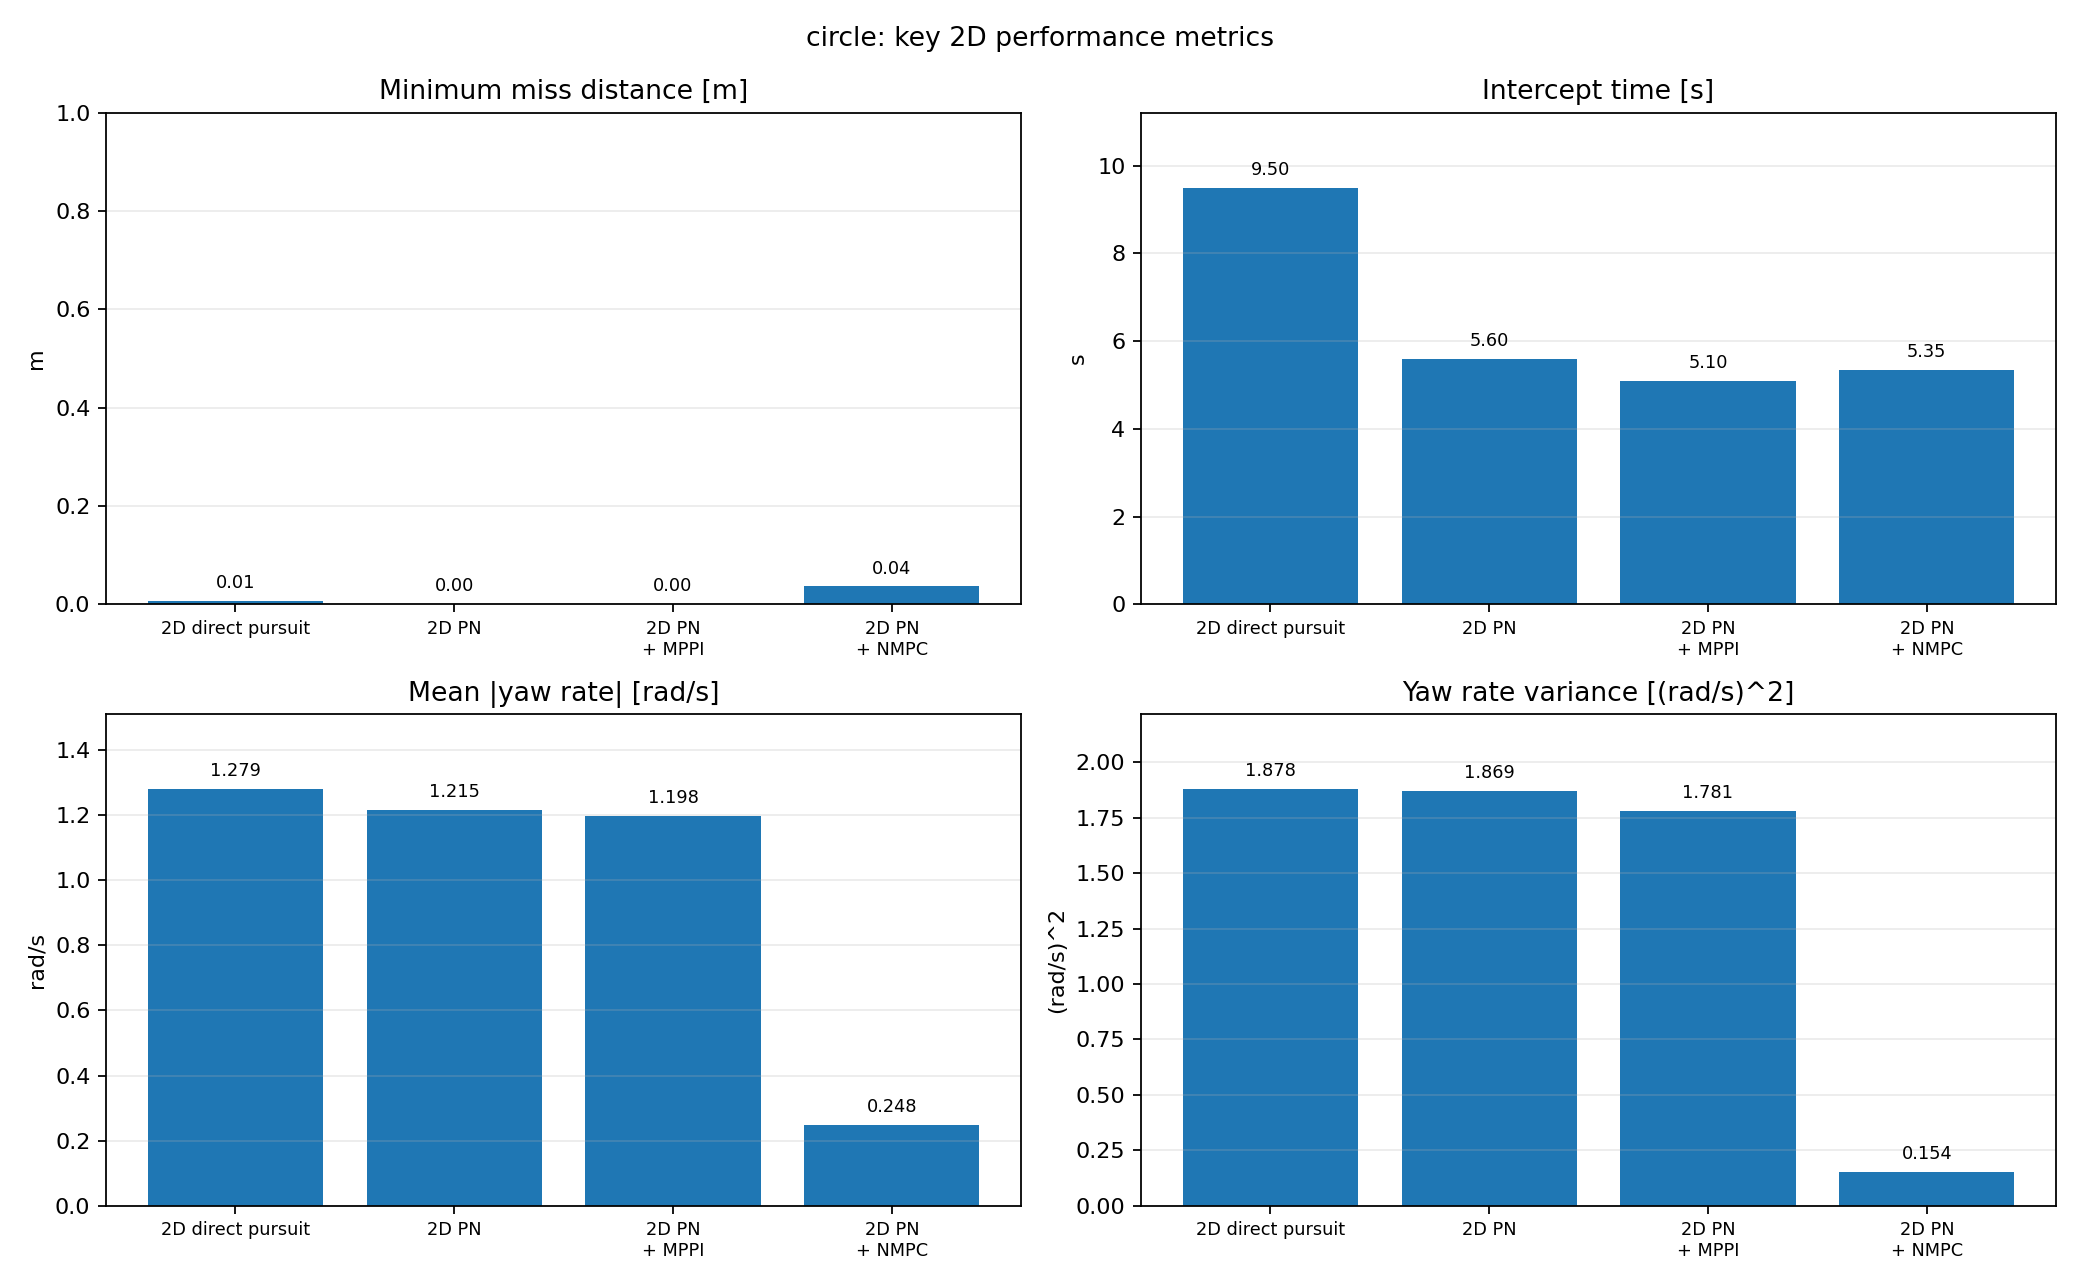
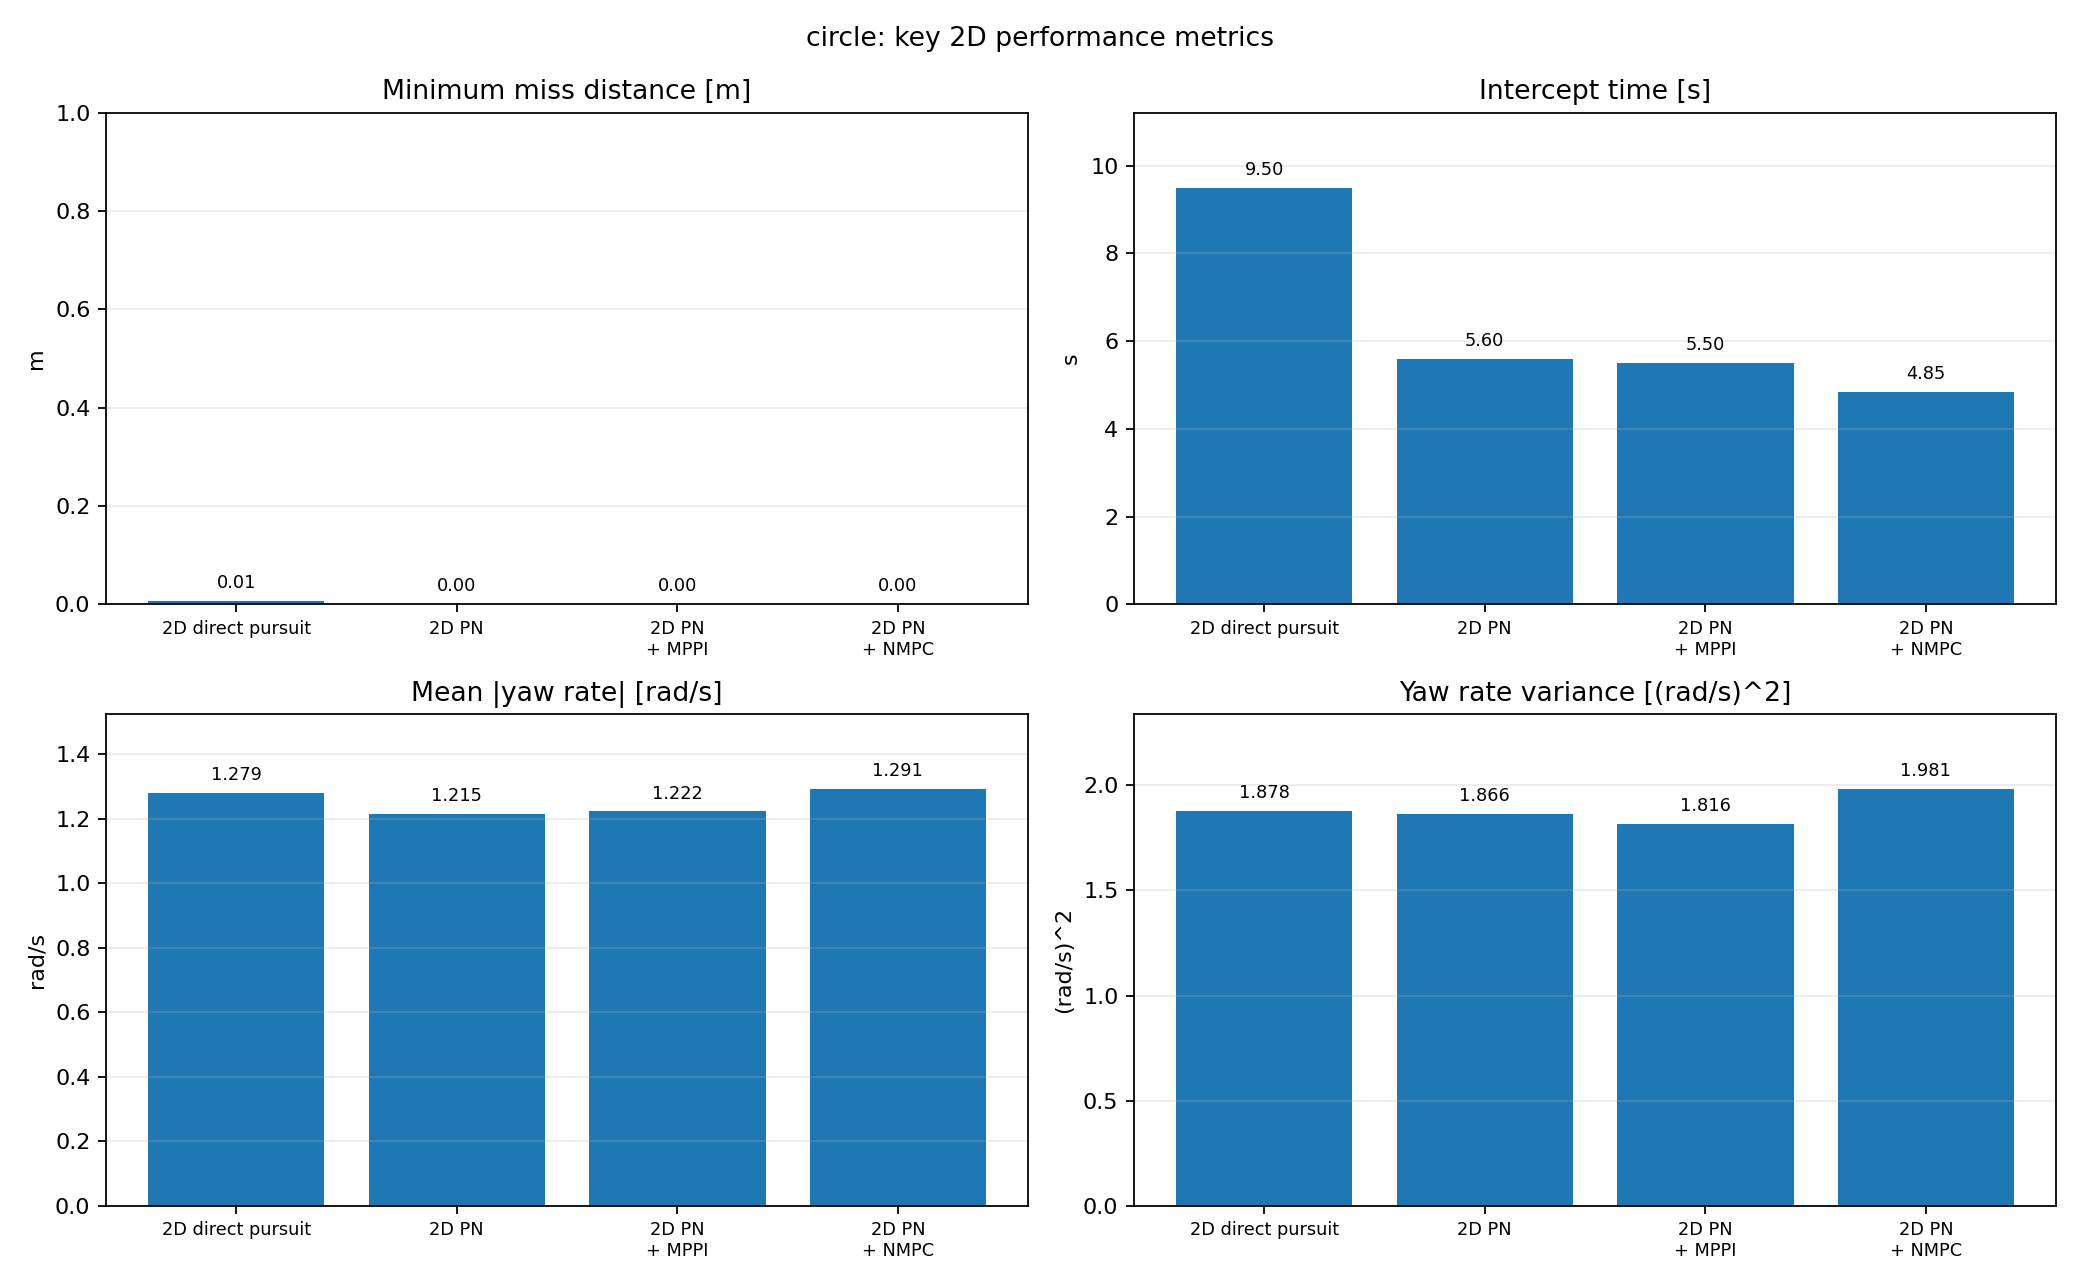
更新 7_2Dsimulation 文档：第 12 节改用视觉闭环 40 s 实测，刷新圆周指标与图表

diff --git a/7_2Dsimulation/docs/yolo_vision_closed_loop_results.md b/7_2Dsimulation/docs/yolo_vision_closed_loop_results.md
@@ -204,6 +204,8 @@ circle_vision/                            # 绘图与 metrics.csv
 
 结论：调整后的 EMPC 在两种起始方式和重复运行下最大水平误差 2.4～2.8 m，全程满足 ≤ 5 m；默认参数只在"悬停就位"这一种起始方式下达标。代价是控制更激进、更贴近 PN 趋势（`pn_nmpc` 的 yaw rate mean 不再是四算法中最低），离线捕获时间和控制能量反而下降，见 [算法说明](2d_simulation_guidance_overview.md) 第 10 节。原始记录在 `outputs/tuning_runs/`（生成物，不入库）。
 
+同一天还跑了一轮**四算法各 40 s 的视觉闭环对照**（调参后参数，`target_source=vision`）：EMPC 最大水平距离 3.06 m、平均 1.30 m，均为四者最低；MPPI 控制能量与 yaw rate 最低但最大距离 13.59 m。四算法的导引侧指标、统计口径与原点偏置说明见 [算法说明](2d_simulation_guidance_overview.md) 12.1～12.2 节。
+
 ## 5. 已知边界与风险
 
 - **零样本域差异是最大风险**：Det-Fly 是真实天空背景侧视图，Gazebo 是俯视渲染；P3 门槛不达标时再评估是否需要域适配微调。
